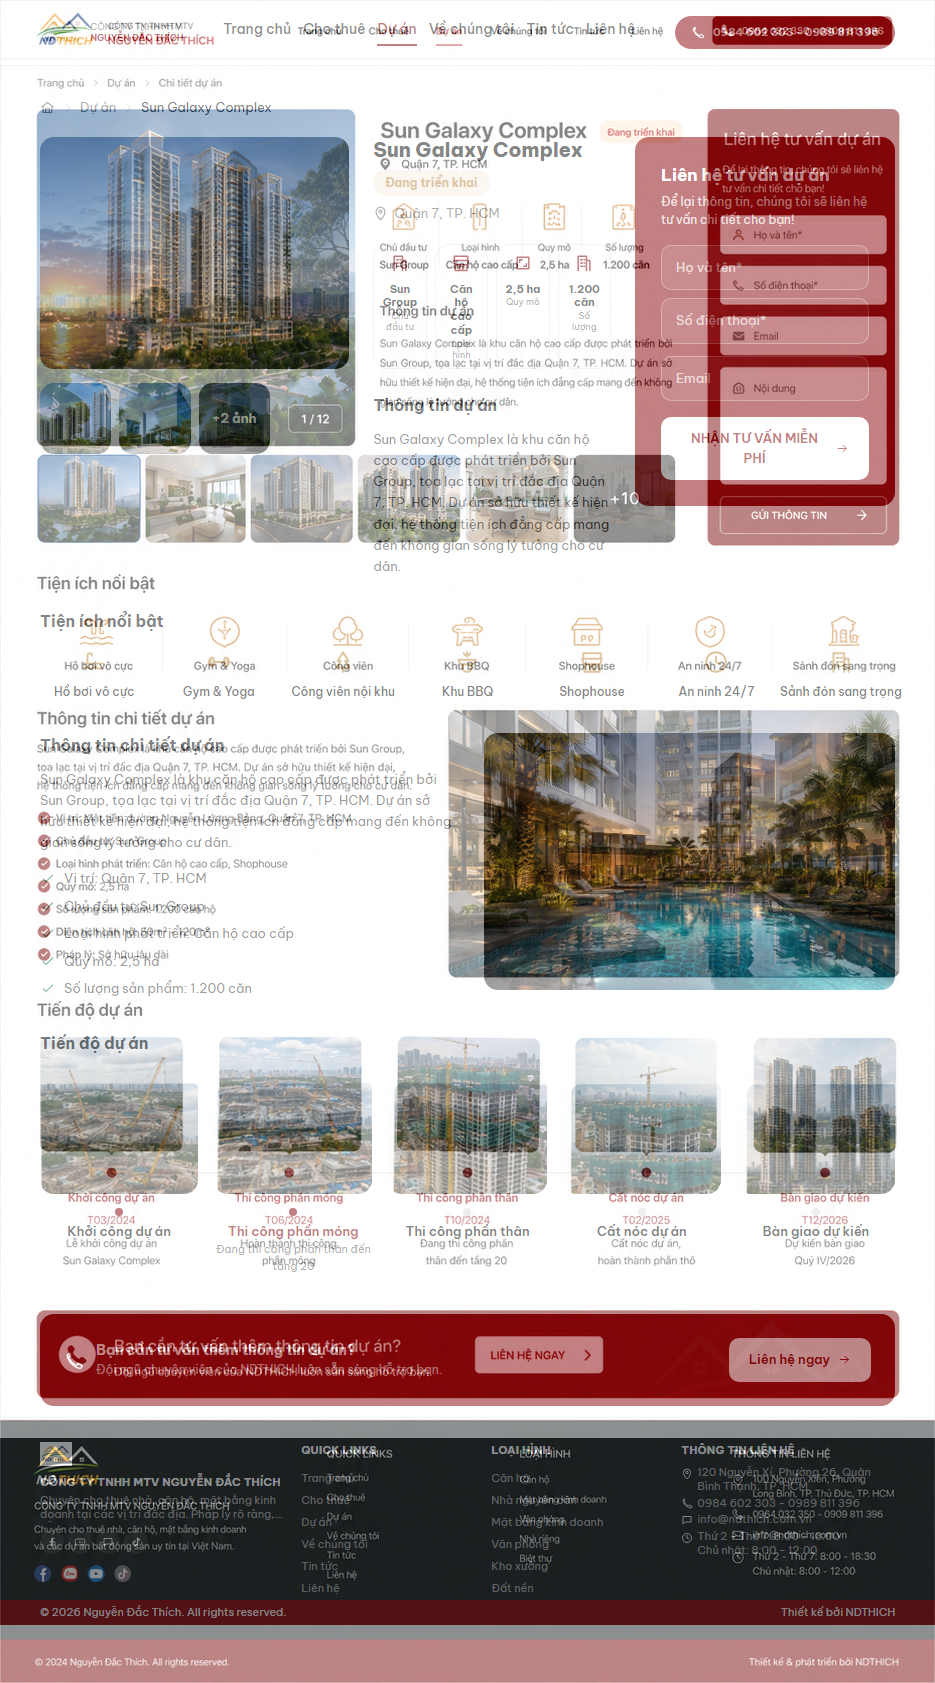
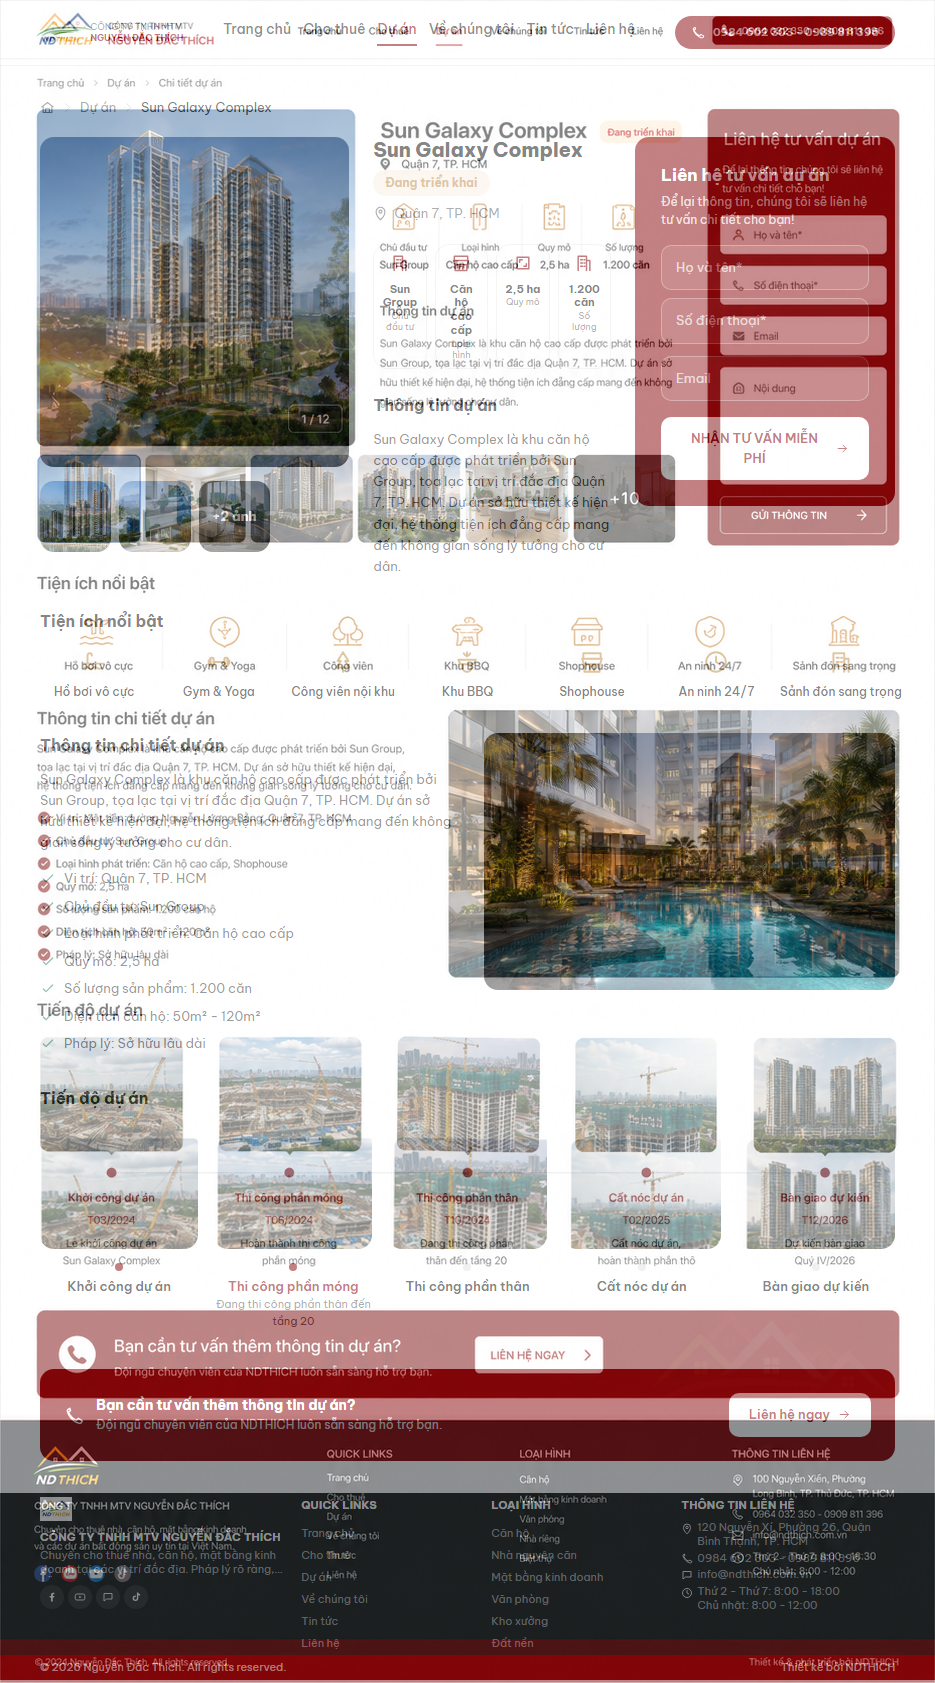
webby(qa): round 8 final targeted convergence — updated evidence
Re-captured all 10 canonical screens against implementation commit 7c6ee6a
after the geometry fixes (button-strip structure, gallery aspect, checklist
completeness, header hotline style, facts chip layout). Also replaced
notVisibleInMaster placeholders for /du-an and /du-an/[slug] regions with
real ruler-overlay-measured masterBox values.

Net result vs round 7: WEB /du-an genuinely improved (52.043% -> 47.459%)
despite the asset swap headwind — the geometry fixes outweighed the
content-diff noise there. Every other screen still shows higher raw
diffPixelRatio than round 7, expected given the round-8 asset swap
(different specific photos than whatever composited the master). MOBILE
/du-an regressed further in raw-pixel terms (54.249% -> 67.997%) despite
the card structure now genuinely matching master's image+button-strip
composition — taller, correctly-structured cards mean less of the page fits
in the fixed canonical viewport, shifting which content lands where
pixelmatch compares it. Full explanation and per-screen classification in
the round-8 final report message, not hidden here.

Changed region(s): [[0.0, 0.587, 1.0, 1.0], [0.031, 0.0618, 0.3722, 0.3399]]

diff --git a/tests/visual/pha3-v2-capture-round8.spec.ts b/tests/visual/pha3-v2-capture-round8.spec.ts
@@ -184,12 +184,21 @@ const CAPTURES: CaptureSpec[] = [
     route: "/du-an",
     navigateTo: "/du-an",
     masterRegions: {
-      WEB: { header: SHARED_HEADER_WEB },
+      // Ruler-overlay re-measured this round (round-8 report/message,
+      // "FINAL TARGETED CONVERGENCE" section) — replaces the previous
+      // notVisibleInMaster placeholders with real boxes.
+      WEB: {
+        header: SHARED_HEADER_WEB,
+        heading: { x: 0, y: 85, width: 935, height: 170 },
+        "project-grid": { x: 0, y: 290, width: 935, height: 905 },
+        about: { x: 0, y: 1230, width: 935, height: 220 },
+        footer: { x: 0, y: 1500, width: 935, height: 183 },
+      },
       MOBILE: {
         header: mobileHeader(),
-        heading: { x: 0, y: 100, width: 724, height: 200 },
-        "project-grid": { x: 0, y: 300, width: 724, height: 1130 },
-        about: { x: 0, y: 1500, width: 724, height: 400 },
+        heading: { x: 0, y: 95, width: 724, height: 185 },
+        "project-grid": { x: 0, y: 290, width: 724, height: 1230 },
+        about: { x: 0, y: 1560, width: 724, height: 290 },
       },
     },
   },
@@ -198,7 +207,17 @@ const CAPTURES: CaptureSpec[] = [
     route: "/du-an/[slug]",
     navigateTo: "/du-an/sun-galaxy-complex",
     masterRegions: {
-      WEB: { header: SHARED_HEADER_WEB },
+      // Ruler-overlay re-measured this round. Only "amenities"/"progress"/
+      // "bottom-cta" carry a data-qa-region on this page currently — the
+      // top gallery/summary/form band isn't individually tagged, so it's
+      // intentionally left unmeasured here rather than inventing a region
+      // name the actual capture can never match.
+      WEB: {
+        header: SHARED_HEADER_WEB,
+        amenities: { x: 0, y: 590, width: 935, height: 100 },
+        progress: { x: 0, y: 1010, width: 935, height: 240 },
+        "bottom-cta": { x: 0, y: 1250, width: 935, height: 60 },
+      },
       MOBILE: { header: mobileHeader() },
     },
   },
